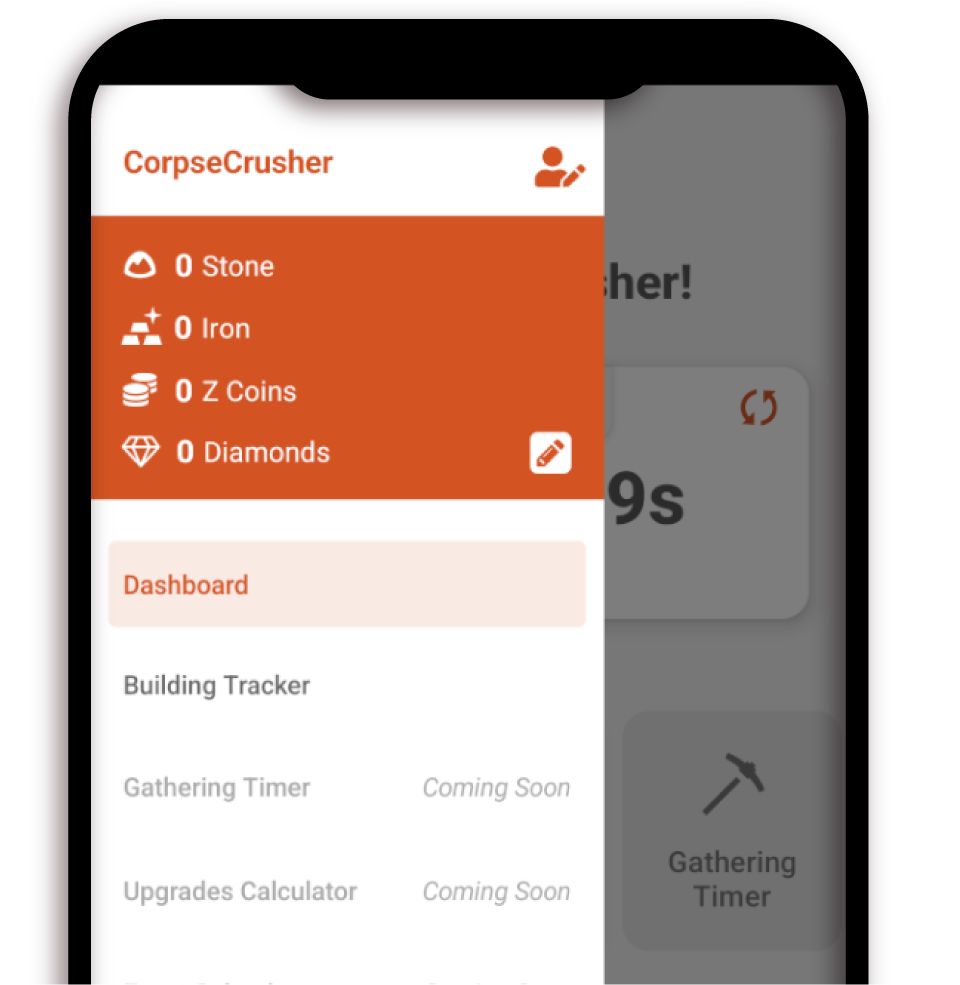
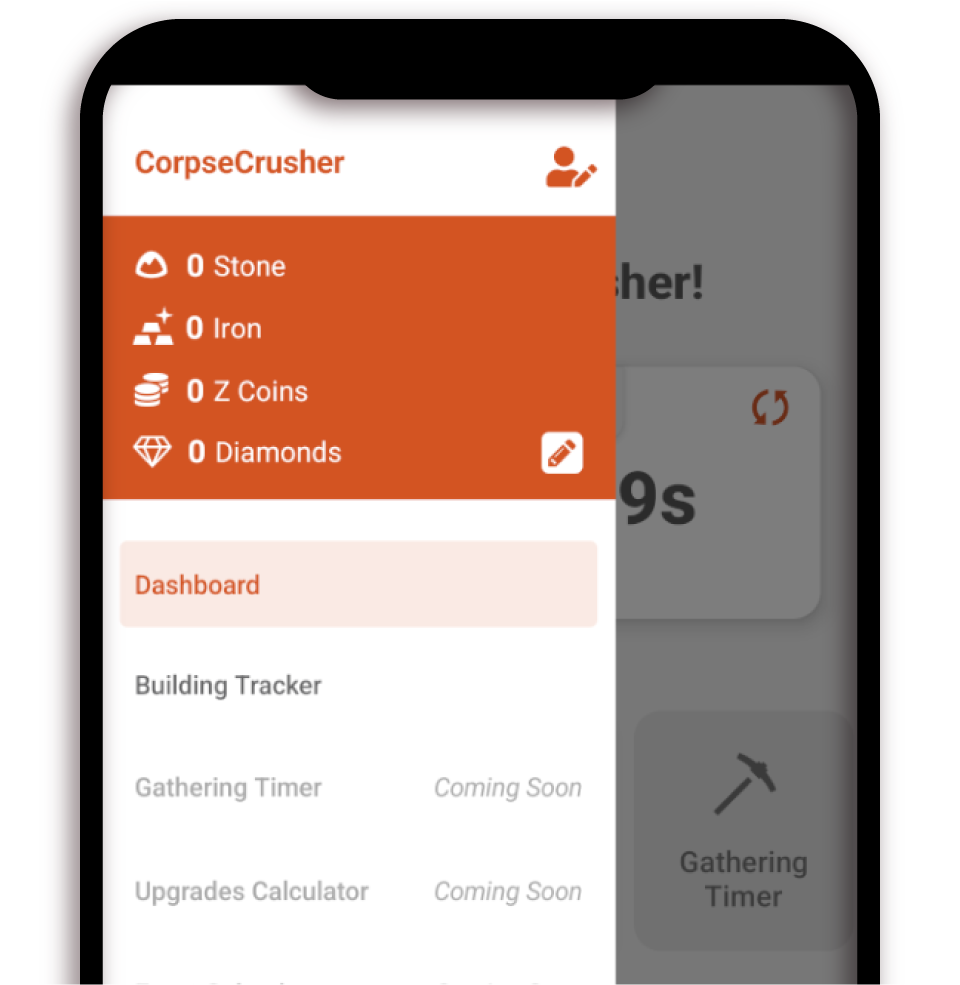
shadows mimicked on iOS to match elevation on Android

diff --git a/src/Screens/OnBoardingScreen.js b/src/Screens/OnBoardingScreen.js
@@ -68,6 +68,12 @@ const OnBoardingScreen = ({ setOnBoarding = null, navigation = null }) => {
               alignItems: "center",
               justifyContent: "center",
               borderRadius: 5,
+              shadowOpacity: 0.35,
+              shadowColor: "rgba(0, 0, 0, 0.5)",
+              shadowOffset: {
+                width: 2,
+                height: 2,
+              },
               elevation: 5,
             }}
           >
@@ -215,6 +221,7 @@ const OnBoardingScreen = ({ setOnBoarding = null, navigation = null }) => {
                 textAlign: "center",
                 color: "rgba(255, 255, 255, 0.5)",
                 textTransform: "uppercase",
+                fontSize: 13,
               }}
             >
               Tutorial {currentActive + 1} / {onBoardingPages.length}
@@ -232,9 +239,12 @@ const OnBoardingScreen = ({ setOnBoarding = null, navigation = null }) => {
                   key={index}
                   style={{
                     borderWidth: 1,
-                    borderColor: index === currentActive ? "#fff" : "#fff",
+                    borderColor:
+                      index <= currentActive
+                        ? "#fff"
+                        : "rgba(255, 255, 255, 0.25)",
                     backgroundColor:
-                      index === currentActive ? "#fff" : "#d35322",
+                      index <= currentActive ? "#fff" : "#d35322",
                     width: 10,
                     height: 10,
                     borderRadius: 20,
@@ -252,6 +262,7 @@ const OnBoardingScreen = ({ setOnBoarding = null, navigation = null }) => {
                   marginBottom: 15,
                   backgroundColor: "#fff",
                   borderRadius: 10,
+                  overflow: "hidden",
                   width: "100%",
                   color: "#d35322",
                   textAlign: "center",
@@ -306,6 +317,7 @@ const OnBoardingScreen = ({ setOnBoarding = null, navigation = null }) => {
                 textAlign: "center",
                 color: "#d35322",
                 textTransform: "uppercase",
+                fontSize: 13,
                 opacity: 0.5,
               }}
             >
@@ -317,9 +329,9 @@ const OnBoardingScreen = ({ setOnBoarding = null, navigation = null }) => {
                   key={index}
                   style={{
                     borderWidth: 1,
-                    borderColor: index === currentActive ? "#d35322" : "#ddd",
+                    borderColor: index <= currentActive ? "#d35322" : "#ddd",
                     backgroundColor:
-                      index === currentActive ? "#d35322" : "white",
+                      index <= currentActive ? "#d35322" : "white",
                     width: 10,
                     height: 10,
                     borderRadius: 20,
@@ -339,7 +351,7 @@ const OnBoardingScreen = ({ setOnBoarding = null, navigation = null }) => {
                 <Text
                   style={{
                     padding: 15,
-                    marginBottom: 15,
+                    marginBottom: 5,
                     backgroundColor: "#d35322",
                     borderRadius: 10,
                     width: "100%",
@@ -357,9 +369,10 @@ const OnBoardingScreen = ({ setOnBoarding = null, navigation = null }) => {
                 <Text
                   style={{
                     padding: 15,
-                    marginBottom: 15,
+                    marginBottom: 5,
                     backgroundColor: "#d35322",
                     borderRadius: 10,
+                    overflow: "hidden",
                     width: "100%",
                     color: "white",
                     textAlign: "center",
@@ -374,7 +387,14 @@ const OnBoardingScreen = ({ setOnBoarding = null, navigation = null }) => {
               <TouchableWithoutFeedback
                 onPress={() => setCurrentActive(currentActive - 1)}
               >
-                <Text style={{ marginBottom: 20, fontSize: 12, color: "#777" }}>
+                <Text
+                  style={{
+                    marginBottom: 20,
+                    padding: 10,
+                    fontSize: 12,
+                    color: "#777",
+                  }}
+                >
                   Missed something? Go back.
                 </Text>
               </TouchableWithoutFeedback>

diff --git a/src/Screens/Dashboard.js b/src/Screens/Dashboard.js
@@ -145,27 +145,46 @@ const Dashboard = observer(() => {
           marginTop: 30,
           backgroundColor: "#fbfbfb",
           borderRadius: 15,
+          shadowOpacity: 0.25,
+          shadowColor: "rgba(0, 0, 0, 1)",
+          shadowOffset: {
+            width: 0,
+            height: 0,
+          },
+          shadowRadius: 5,
           elevation: 6,
         }}
       >
         <View style={{ alignItems: "center" }}>
           <TouchableWithoutFeedback onPress={() => switchTime()}>
-            <Text
+            <View
               style={{
                 padding: 10,
-                marginBottom: -12,
+                marginBottom: -10,
+                alignItems: "center",
+                backgroundColor: "#eee",
                 borderBottomLeftRadius: 10,
                 borderBottomRightRadius: 10,
-                backgroundColor: "#eee",
-                alignItems: "center",
-                fontSize: 14,
-                fontWeight: "500",
-                color: "#555",
+                shadowOpacity: 0.2,
+                shadowColor: "rgba(0, 0, 0, 1)",
+                shadowOffset: {
+                  width: 0,
+                  height: 2,
+                },
+                shadowRadius: 2,
                 elevation: 3,
               }}
             >
-              {showTimeLeft ? "Time Until Next Reset" : "Server Time"}
-            </Text>
+              <Text
+                style={{
+                  fontSize: 14,
+                  fontWeight: "500",
+                  color: "#555",
+                }}
+              >
+                {showTimeLeft ? "Time Until Next Reset" : "Server Time"}
+              </Text>
+            </View>
           </TouchableWithoutFeedback>
         </View>
 
@@ -227,6 +246,13 @@ const Dashboard = observer(() => {
                   width: 120,
                   backgroundColor: item.disabled ? "#e1e1e1" : "#fbfbfb",
                   borderRadius: 15,
+                  shadowOpacity: item.disabled ? 0 : 0.3,
+                  shadowColor: "rgba(0, 0, 0, 1)",
+                  shadowOffset: {
+                    width: 0,
+                    height: 0,
+                  },
+                  shadowRadius: 5,
                   elevation: item.disabled ? 0 : 6,
                 }}
               >
@@ -284,14 +310,15 @@ const Dashboard = observer(() => {
           <View
             style={{
               bottom: 0,
+              padding: 15,
+              marginHorizontal: 20,
+              backgroundColor: "#d35322",
+              borderRadius: 999,
+              overflow: "hidden",
             }}
           >
             <Text
               style={{
-                padding: 15,
-                marginHorizontal: 20,
-                backgroundColor: "#d35322",
-                borderRadius: 999,
                 textAlign: "center",
                 fontWeight: "600",
                 fontSize: 15,

diff --git a/src/Screens/VotingScreen.js b/src/Screens/VotingScreen.js
@@ -184,6 +184,14 @@ const VotingScreen = observer(() => {
                       featureVote === feature.title ? "#d35322" : "#fff",
                     borderColor: "#d35322",
                     borderRadius: 15,
+
+                    shadowColor: "black",
+                    shadowOpacity: featureVote === feature.title ? 0 : 0.35,
+                    shadowOffset: {
+                      width: 0,
+                      height: 0,
+                    },
+                    shadowRadius: 5,
                     elevation: featureVote === feature.title ? 0 : 6,
                   }}
                 >

diff --git a/src/Components/HomeRenderItem.js b/src/Components/HomeRenderItem.js
@@ -60,18 +60,17 @@ const styles = StyleSheet.create({
     paddingTop: 20,
     paddingBottom: 25,
     paddingHorizontal: 15,
-    marginBottom: 15,
+    marginVertical: 10,
     width: "90%",
     alignSelf: "center",
     justifyContent: "center",
     borderRadius: 10,
     backgroundColor: "#fff",
     shadowColor: "#000",
-    shadowOffset: { width: 0, height: 7 },
+    shadowOffset: { width: 0, height: 0 },
+    shadowOpacity: 0.4,
     shadowRadius: 6,
-    shadowOpacity: 1,
     elevation: 7,
-    overflow: "hidden",
   },
   cardTop: {
     flexDirection: "row",

diff --git a/src/Screens/BuildingScreen.js b/src/Screens/BuildingScreen.js
@@ -421,11 +421,11 @@ const styles = StyleSheet.create({
     backgroundColor: "#fff",
     shadowColor: "#444",
     shadowOffset: {
-      width: 1,
-      height: 1,
+      width: 0,
+      height: 0,
     },
-    shadowRadius: 10,
-    shadowOpacity: 0.5,
+    shadowRadius: 7,
+    shadowOpacity: 0.35,
 
     borderRadius: 20,
 

diff --git a/src/Screens/TrackerScreen.js b/src/Screens/TrackerScreen.js
@@ -82,7 +82,7 @@ const styles = StyleSheet.create({
   },
   header: {
     paddingTop: 30,
-    paddingBottom: 40,
+    paddingBottom: 20,
     paddingHorizontal: 20,
     flexDirection: "row",
     alignItems: "center",
